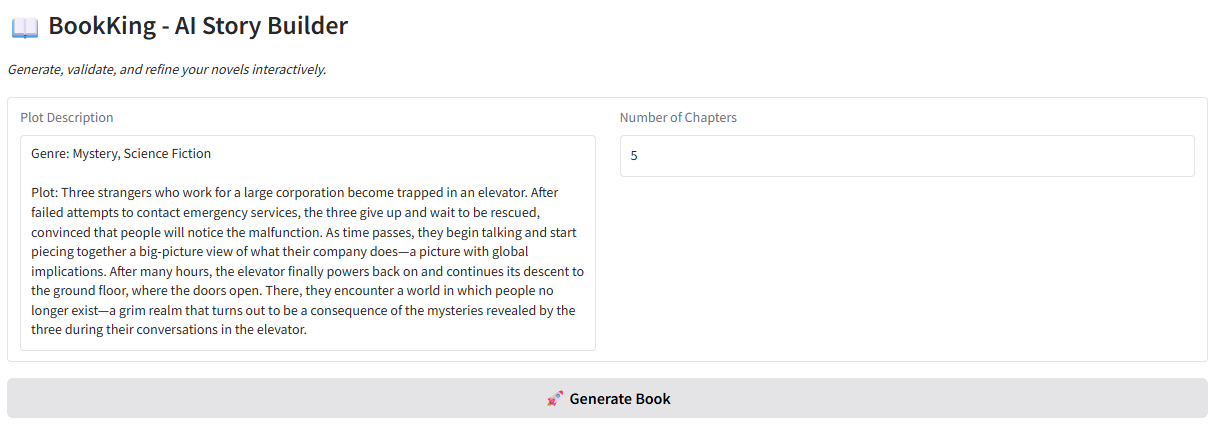
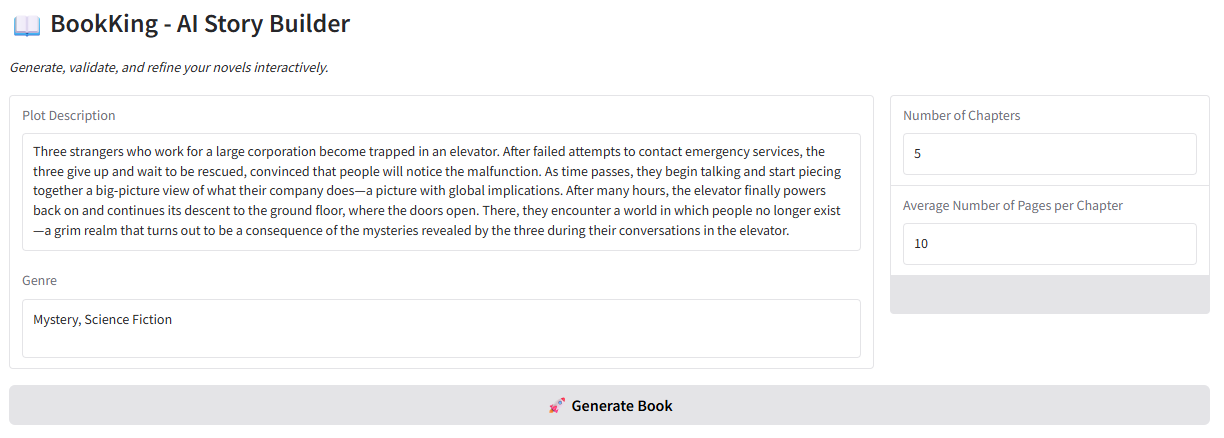
feat: add average number of pages per chapter input to book generation pipeline

diff --git a/pipeline/step4_chapter_writer.py b/pipeline/step4_chapter_writer.py
@@ -52,7 +52,7 @@ Your job:
    - If there are no previous chapters, start naturally from the story’s beginning.
 4. Maintain a clear and structured prose style, but allow natural dialogue and expressive language where it enhances the scene.
 5. Adapt style, pacing, and atmosphere to fit the GENRE described above.
-6. Target length: long-form (approx. 2500–5000 words). If the model cannot produce that many tokens, create the most coherent chapter possible within limits.
+6. Target length: {word_target_note}
 7. End with a natural chapter conclusion (not mid-scene or mid-sentence).
 8. Do not include chapter headers, outlines, or meta commentary — only the story text itself.
 
@@ -63,7 +63,6 @@ Begin writing Chapter {chapter_number} now.
 
 
 def _join_previous_chapters(previous_texts):
-    """Concatenate all previous chapters in full for model context."""
     if not previous_texts:
         return "None"
     joined = []
@@ -77,18 +76,10 @@ def generate_chapter_text(expanded_plot: str,
                           chapter_index: int,
                           previous_chapters=None,
                           genre: str = None,
+                          anpc: int = None,
                           local_api_url=None,
                           model_name=None,
                           feedback=None):
-    """
-    Generates the full text for chapter `chapter_index` (1-based index).
-    - expanded_plot: the full 2-page story summary
-    - chapters_overview: chapter titles + descriptions
-    - chapter_index: integer index (1-based)
-    - previous_chapters: list of strings (optional)
-    - genre: story genre or style descriptor
-    - feedback: optional feedback string to guide regeneration
-    """
     url = local_api_url or LOCAL_API_URL
     model = model_name or MODEL_NAME
 
@@ -97,12 +88,21 @@ def generate_chapter_text(expanded_plot: str,
     if feedback:
         feedback_section = f"\n\nAdditional reviewer feedback to address:\n\"\"\"{feedback}\"\"\"\n"
 
+    if anpc and anpc > 0:
+        avg_words = anpc * 500
+        min_words = int(avg_words * 0.75)
+        max_words = int(avg_words * 1.25)
+        word_target_note = f"approximately {min_words}–{max_words} words"
+    else:
+        word_target_note = "approximately 2500–3500 words"
+
     prompt = CHAPTER_PROMPT_TEMPLATE.format(
         expanded_plot=expanded_plot,
         chapters_overview=chapters_overview,
         previous_chapters_summary=previous_joined,
         genre=genre or "unspecified",
         chapter_number=chapter_index,
+        word_target_note=word_target_note,
         feedback_section=feedback_section
     )
 

diff --git a/main_app.py b/main_app.py
@@ -15,7 +15,7 @@ def ts_prefix(message: str) -> str:
     return f"[{timestamp}] {message}"
 
 
-def generate_book_outline_stream(plot, num_chapters, genre):
+def generate_book_outline_stream(plot, num_chapters, genre, anpc):
     """
     Stable streaming pipeline:
     - Dropdown: sets value="Chapter 1" only for the first chapter.
@@ -98,7 +98,7 @@ def generate_book_outline_stream(plot, num_chapters, genre):
         )
 
         # generate chapter
-        chapter_text = generate_chapter_text(expanded_plot, chapters_overview, current_index, chapters_full, genre)
+        chapter_text = generate_chapter_text(expanded_plot, chapters_overview, current_index, chapters_full, genre, anpc)
         chapters_full.append(chapter_text)
         status_log.append(ts_prefix(f"✅ Chapter {current_index} generated."))
 
@@ -152,6 +152,7 @@ def generate_book_outline_stream(plot, num_chapters, genre):
                     current_index,
                     chapters_full[:-1],
                     genre,
+                    anpc,
                     feedback=feedback
                 )
                 chapters_full[-1] = chapter_text
@@ -269,7 +270,7 @@ with gr.Blocks(
     # --- Wiring ---
     generate_btn.click(
         fn=generate_book_outline_stream,
-        inputs=[plot_input, chapters_input, genre_input],
+        inputs=[plot_input, chapters_input, genre_input, anpc_input],
         outputs=[
             expanded_output,
             chapters_output,
